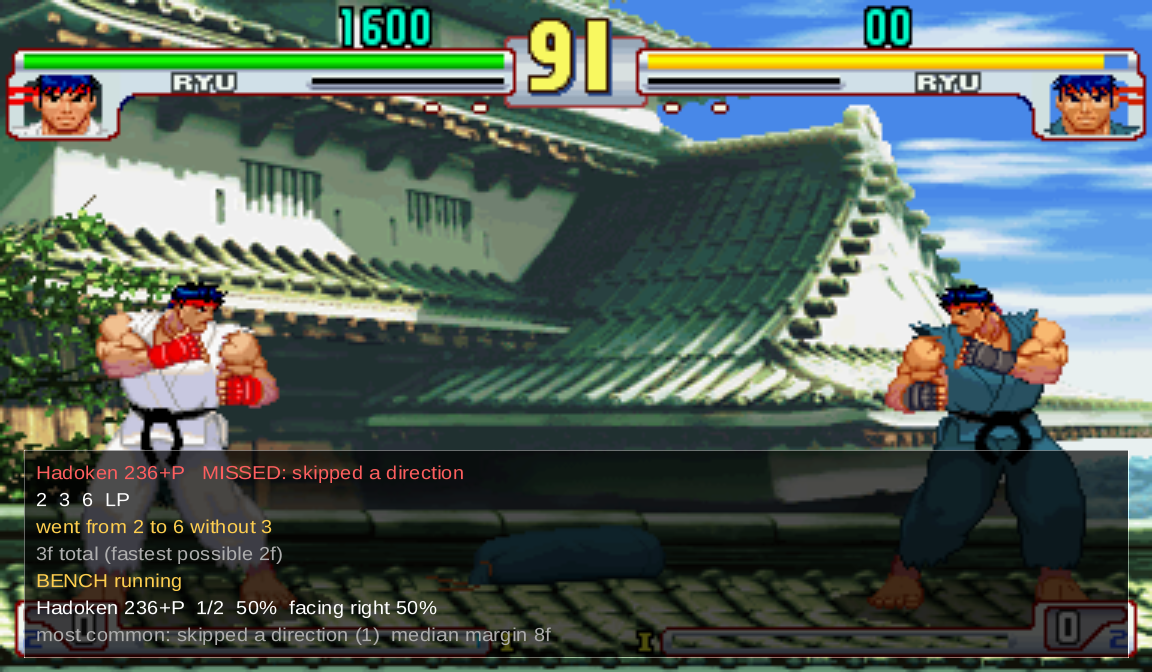
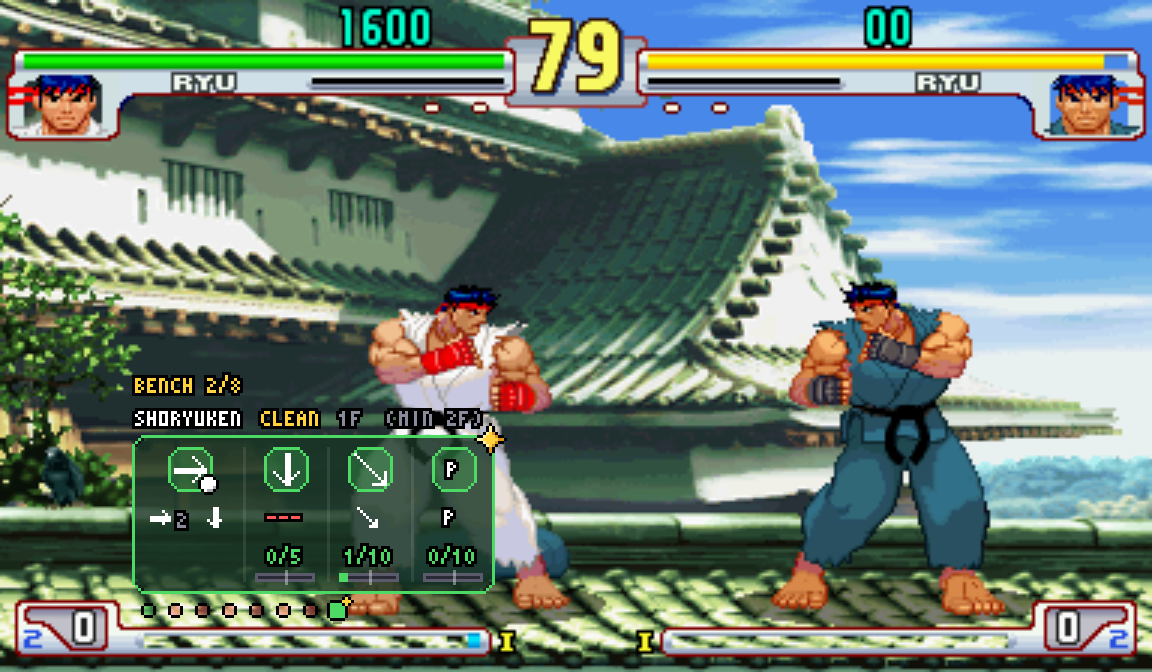
feat: run as an add-on of Fightcade's training mode and document the new overlay

diff --git a/README.md b/README.md
@@ -1,87 +1,95 @@
 # Input grader
 
-Frame-accurate feedback on special move inputs for Street Fighter III: 3rd Strike, as a Lua overlay for [Fightcade](https://www.fightcade.com/)'s FBNeo. After every attempt it tells you whether the move came out, how many frames each direction took against the window the game allows, and what went wrong when it did not.
+Frame-accurate feedback on special move inputs for Street Fighter III: 3rd Strike, as an overlay for [Fightcade](https://www.fightcade.com/)'s FBNeo. After every attempt it shows what the move needed next to what you did, how many frames each part took against the window the game allows, and what went wrong when the move did not come out.
 
-![The overlay after a missed Hadoken: "went from 2 to 6 without 3", with a running bench session below](docs/images/overlay.png)
+![The overlay after a clean Shoryuken: a green card with the sparkle, one column per input, frames used over frames allowed, and recent attempts as pearls underneath](docs/images/overlay.png)
 
-The windows are the game's own: read from the command tables in the arcade ROM, and checked against the running game frame by frame (142,748 frames across every character, without a mismatch).
+The windows are the game's own: read from the command tables in the arcade ROM, and checked against the running game frame by frame (over 165,000 frames across every character and both Japanese ROM revisions, without a mismatch).
 
 ## Features
 
-- **Per-attempt grading** of every special move and super art, for all 20 characters: the move you went for, whether it came out, and the frames used per step against each step's window.
-- **Specific feedback** when it fails: a skipped diagonal ("went from 2 to 6 without 3"), a direction that came too late and by how many frames, a button too early or too late, a motion cancelled by up, or a different move coming out instead.
-- **Timing summary**: frames from the first direction to the button, the fastest possible, and your tightest margin, so you can see how close a successful input was to failing.
-- **Bench mode**: start a session, do reps, stop, and get success rates per move and per side, your most common mistake, your median margin, and first-ten against last-ten success.
-- **Target move**: restrict grading and the bench to one move.
+- **A card per attempt** for every special move and super art, for all 20 characters. One column per input of the motion plus the button: what the move needs on top, what you did in that input's time below it, and a meter with frames used over frames allowed.
+- **Specific feedback** when it fails, in a few words and icons: a skipped diagonal (`NO ↘`), a direction too late and by how much (`↘ +3F LATE`), a button too early or too late, a motion cancelled by up. The input that broke the attempt is boxed in red.
+- **Clean and frame-perfect**: an attempt where every input used at most half its window earns a gold sparkle and CLEAN; the fastest possible input turns the card gold.
+- **Recent attempts** as pearls under the card (red missed, green out, gold for clean and frame-perfect). Page Up and Page Down step back through them.
+- **Target any move**, including dashes, parries and other moves without a button, which are only graded while targeted. With a target, moving around between reps never counts as an attempt.
+- **Bench mode**: start a session, do reps, stop, and get success rates per move and per side, your most common mistake and your median margin.
 - **Attempt log**: every graded attempt appended to `logs/attempts.csv` for comparing sessions.
-- **Runs alongside [3rd_training_lua](https://github.com/Grouflon/3rd_training_lua)** (hitboxes, frame data, dummy control) in the same Fightcade session.
+- **Runs inside Fightcade's training mode** as an add-on, next to its hitboxes and input display, with Fightcade's own icons.
 - **Reference tables**: [every character's motions and windows](docs/windows.md), generated from the ROM.
 
 ## Requirements
 
 - Fightcade 2 with 3rd Strike (the `sfiii3nr1` set, which Fightcade uses).
-- This repository on the same machine. Fightcade's Linux Flatpak cannot see your home folder by default; see [Fightcade on Linux](#fightcade-on-linux).
+- This repository on the same machine.
 
-## Quick start
+## Install
 
-1. Start 3rd Strike in Fightcade's training mode (or offline) and get into a match.
-2. Open **Game > Lua Scripting > New Lua Script Window**, **Browse** to `input_grader.lua` in this repository, and **Run**.
-3. Do a Hadoken (236+P). The card appears at the bottom of the screen.
+### Linux (Fightcade Flatpak)
+
+Start Fightcade once, then run:
+
+```sh
+tools/install-fightcade-addon.sh
+```
+
+It adds the grader to Fightcade's training mode and lets the Flatpak read this repository and write its `logs/` folder. Start 3rd Strike with Fightcade's training mode, as usual: the grader loads with it.
+
+### Windows
+
+Run Git Bash in this repository and pass your training mode folder:
+
+```sh
+tools/install-fightcade-addon.sh "/c/path/to/Fightcade/emulator/fbneo/fbneo-training-mode"
+```
+
+Without Git Bash, create the folder `fbneo-training-mode\games\sfiii3\addon\` next to Fightcade's emulator, and put two files in it: `addons.lua` containing `addons_run = { "input_grader.lua" }`, and a copy of `tools\fightcade_addon.lua.in` named `input_grader.lua`, with `@GRADER@` replaced by the path of this repository ending in a backslash.
+
+### Without the training mode
+
+In a 3rd Strike match, open **Game > Lua Scripting > New Lua Script Window**, **Browse** to `input_grader.lua` in this repository, and **Run**. Loading a script this way stops any other script, including the training mode.
 
 ## Controls
 
-| Hotkey | Action |
+Plain keys, no setup in the emulator:
+
+| Key | Action |
 | --- | --- |
-| Alt+7 | Start a bench session, or stop it and show the results |
-| Alt+8 | Cycle the target move: all moves, then each of your character's moves |
-| Alt+9 | Hide or show the overlay |
+| M | Open or close the target picker. While it is open your character stands still: the stick moves through the list, LP picks, LK closes |
+| B | Start a bench session, or stop it and show the result |
+| H | Hide or show the overlay |
+| Page Up, Page Down | Step back and forward through recent attempts; a new attempt returns to the latest |
+
+If you map FBNeo's Lua Hotkeys 7, 8 and 9 (Input > Map game inputs), they do the same as B, M and H.
 
 ## Reading the card
 
-```
-Hadoken 236+P   MISSED: skipped a direction
-2  3  6  LP
-went from 2 to 6 without 3
-3f total (fastest possible 2f)
-```
-
-| Line | Meaning |
+| Part | Meaning |
 | --- | --- |
-| Title | The move, its notation, and `OUT` or `MISSED` with the kind of mistake |
-| Steps | Each direction and the button. `3 2/10` means 3 came 2 frames after the previous direction, of 10 allowed. `LP 0/10` means the button came on the frame the motion completed, of 10 allowed after it |
-| Reason | What went wrong, in plain words (missed attempts only) |
-| Timing | Frames from the first direction to the button, the fastest possible, and the tightest margin of any window |
+| Name line | The move, then CLEAN or FRAME-PERFECT, or what went wrong. TARGET in front marks your target move |
+| Top row | What the move needs: each direction, then the button. A dashed box is an optional direction (the last 6 of a super). A small ball on a slot means "then let go" (the Shoryuken's first 6) |
+| Middle row | What you did in that input's time. The first column also shows how long you held the first direction |
+| Meters | Frames since the previous input over frames allowed: `2/10`. The bar is green up to half the window, orange past half, red past the end, with a notch where the window ended |
+| Box colour | Green: the move came out. Red: it did not. Gold: frame-perfect |
+| Pearls | Recent attempts; the one shown is bigger and lifted |
 
 The verdicts are explained in [how it works](docs/how-it-works.md#verdicts).
 
 ## Bench mode
 
-Press Alt+7, do your reps, press Alt+7 again. The panel shows, per move: successes out of attempts, the success rate overall and per facing, the most common mistake, the median margin, and the success rate of your first ten attempts against your last ten. Choose a target with Alt+8 first to bench a single move.
+Press B, do your reps, press B again. A panel shows, per move: successes out of attempts, the success rate overall and per facing, the most common mistake and the median margin. Pick a target with M first to bench a single move.
 
 Every graded attempt, bench or not, is appended to `logs/attempts.csv`: time, character, move, facing, result, mistake, per-step timings and margins.
 
 ## Running with 3rd_training_lua
 
-FBNeo keeps one callback per hook, so two scripts loaded one after the other replace each other's hooks. The grader ships a launcher that runs both in one script:
+To use the grader with [3rd_training_lua](https://github.com/Grouflon/3rd_training_lua) instead of Fightcade's training mode, write a launcher that runs both in one script:
 
 ```sh
 tools/install-training-launcher.sh /path/to/3rd_training_lua
 ```
 
-This writes `3rd_training_with_grader.lua` into the training folder. Load that file instead of `3rd_training.lua`. The training script's hotkeys (Alt+1 to Alt+3) and the grader's (Alt+7 to Alt+9) do not overlap. If Fightcade runs under Wine and the training folder is on another Wine drive, add `--windows-path`.
-
-## Fightcade on Linux
-
-The Fightcade Flatpak has no access to your files. Let it read this repository, write the log, and read the training folder:
-
-```sh
-flatpak override --user \
-  --filesystem="$PWD":ro --filesystem="$PWD/logs" \
-  --filesystem=/path/to/3rd_training_lua \
-  com.fightcade.Fightcade
-```
-
-`tools/install-training-launcher.sh` prints this command with your paths filled in.
+This writes `3rd_training_with_grader.lua` into the training folder. Load that file instead of `3rd_training.lua`. If Fightcade runs under Wine and the training folder is on another Wine drive, add `--windows-path`.
 
 ## What the game does that you might not expect
 
@@ -103,8 +111,8 @@ Details in [how it works](docs/how-it-works.md); every move's windows in [window
 - Validated in the real game on both the Japan 990608 set and Fightcade's 990512 set.
 - Charge, 360 and mash moves are graded, with less specific feedback than motions.
 - The end-to-end verdict checks use Ryu; other characters' command checks are validated frame by frame, but their verdicts have only been spot-checked.
-- The screenshots come from the MAME test bench; FBNeo draws the same overlay with its own small font.
-- Tested with Fightcade 2.4.2 (Flatpak) on Linux; not yet run inside Fightcade by the author of these tools.
+- The screenshot comes from the MAME test bench, which has no icon sheet and draws its arrows with lines; in Fightcade the overlay uses Fightcade's own icons.
+- The overlay's drawing, icons, keys and menu were checked inside Fightcade 2.4.2 (Flatpak, Linux) with a smoke test (`smoke_test.lua`, [steps](docs/smoke-test.md)); a full session as a training-mode add-on is next.
 
 ## Development
 
@@ -128,11 +136,11 @@ ROMs go in `roms/` (ignored by git) and are checked against `roms.sha1`. The rea
 | Path | Contents |
 | --- | --- |
 | `input_grader.lua` | The script to load in FBNeo |
-| `lua/input_grader/core/` | Game-agnostic: app, bench, overlay, CSV log, hook multiplexer |
+| `lua/input_grader/core/` | Game-agnostic: app, card, pearls, target picker, bench, drawing, CSV log, hook multiplexer |
 | `lua/input_grader/platform/` | FBNeo and MAME adapters |
 | `lua/input_grader/games/sfiii3/` | 3rd Strike: generated tables, RAM map, checker port, tracker, grader |
 | `harness/mame/` | Real-game validation and end-to-end checks |
-| `tools/` | ROM decryption, table generation, ROM check, struct offsets, launcher installer |
+| `tools/` | ROM decryption, table generation, ROM check, struct offsets, add-on and launcher installers |
 | `tests/` | Unit tests (`lua tests/run.lua`) |
 | `docs/` | How it works, porting, windows reference |
 

diff --git a/docs/porting.md b/docs/porting.md
@@ -4,7 +4,7 @@ The grader is split so the parts that know nothing about 3rd Strike can be reuse
 
 ```
 lua/input_grader/
-  core/              game-agnostic: app, bench, overlay, CSV, input history, hook multiplexer, run
+  core/              game-agnostic: app, card, pearls, picker, bench, drawing, font, CSV, input history, hooks, run
   platform/          one adapter per emulator: fbneo.lua (players), mame.lua (tests, screenshots)
   games/sfiii3/      everything 3rd Strike: tables, RAM map, checker port, tracker, grader
 ```
@@ -19,17 +19,24 @@ What `core/run.lua` and the game modules need from an emulator. See `platform/fb
 | --- | --- | --- |
 | `name`, `romname` | string | Identify the emulator and the loaded set |
 | `mem.u8`, `mem.u16`, `mem.s16`, `mem.u32` | `fn(address) -> number` | Read emulated memory, big- or little-endian as the CPU sees it |
-| `canvas:text(x, y, s, color)` | | Draw text in screen coordinates |
-| `canvas:box(x1, y1, x2, y2, fill, edge)` | | Draw a panel |
+| `canvas:pixel(x, y, color)` | | Draw one pixel |
+| `canvas:line(x1, y1, x2, y2, color)` | | Draw a line |
+| `canvas:box(x1, y1, x2, y2, fill, edge)` | | Draw a filled rectangle with an outline |
+| `canvas:text(x, y, s, color)` | | Draw text in FBNeo's 4x7 font, outlined in black |
+| `canvas:icon(key, x, y, size)` | `-> bool` | Draw an input icon (`u`, `dr`, `LP`, ...); `false` makes the card fall back to line arrows |
+| `on_before(fn)` | | Optional: call `fn` before every frame, while the inputs can still be changed |
+| `keys()` | `-> {name = true}` | Keyboard keys held, as FBNeo's `input.get()` names them (`M`, `pageup`) |
+| `pad()` | `-> {up, down, left, right, LP, ..., HK}` | The player's real controls, read before anything blocks them |
+| `block()` | | Keep the player's controls from the game this frame (while the picker is open) |
 | `on_frame(fn)` | | Call `fn` after every emulated frame |
 | `on_draw(fn)` | | Call `fn` when the overlay should draw |
-| `hotkey(n, fn)` | | Bind a hotkey (FBNeo: Alt+1 to Alt+9) |
+| `hotkey(n, fn)` | | Optional: bind FBNeo's Lua Hotkey `n` |
 | `clock()` | `-> seconds` | Emulated time |
 | `timestamp()` | `-> string` | Wall-clock time for the log |
 | `appender(path, header)` | `-> fn(line)` | Append lines to a file |
 | `print(s)` | | Report to the user |
 
-Colors are names (`text`, `dim`, `good`, `bad`, `warn`, `panel`, `edge`); each adapter maps them to its own format.
+Colours are RGBA numbers (`0xRRGGBBAA`) from the palette in `core/draw.lua`; each adapter converts them to its own format. Screen coordinates are the game's (384x224 for CPS3).
 
 ## The game module interface
 
@@ -38,7 +45,7 @@ What `core/app.lua` consumes.
 | Member | Purpose |
 | --- | --- |
 | `game:update() -> { attempt, ... }` | Called every frame; returns the attempts graded this frame (usually none) |
-| `game:moves() -> { {id, name, notation}, ... }` | Moves the current character can be graded on, for the bench target |
+| `game:moves() -> { {id, name, notation, buttonless, other}, ... }` | Moves the current character can be graded on, for the target picker; `other` puts a move after the divider |
 | `game:set_target(id or nil)` | Grade only one move |
 
 ### Attempt records
@@ -57,6 +64,17 @@ The overlay, the bench and the CSV log only read these fields:
 | `total`, `minimum` | `5`, `2` | Frames from the first step to the button, and the fastest possible |
 | `margin` | `7` | The smallest spare time of any window |
 | `side` | `"right"` | The facing during the attempt |
+| `trace` | see below | What the card draws |
+
+`trace` holds the frames around the attempt and where each step landed, in frames from its start:
+
+| Field | Example | Notes |
+| --- | --- | --- |
+| `frames` | `{ {dir=5, press=""}, {dir=2, press=""}, ... }` | One entry per frame: numpad direction and buttons newly pressed |
+| `steps` | `{ {label="6", at=3, release=true}, {label="2", at=6, window=10} }` | `at` when the step was satisfied, `window` when timed, `release` for "then let go" |
+| `optional` | `{ "6" }` | Directions of the notation the move accepts without, after the last step |
+| `button_at`, `button_window` | `9`, `10` | The frame of the button and the window it had |
+| `complete_at` | `8` | When the motion was complete, `nil` if never |
 
 ## Adding a game
 
